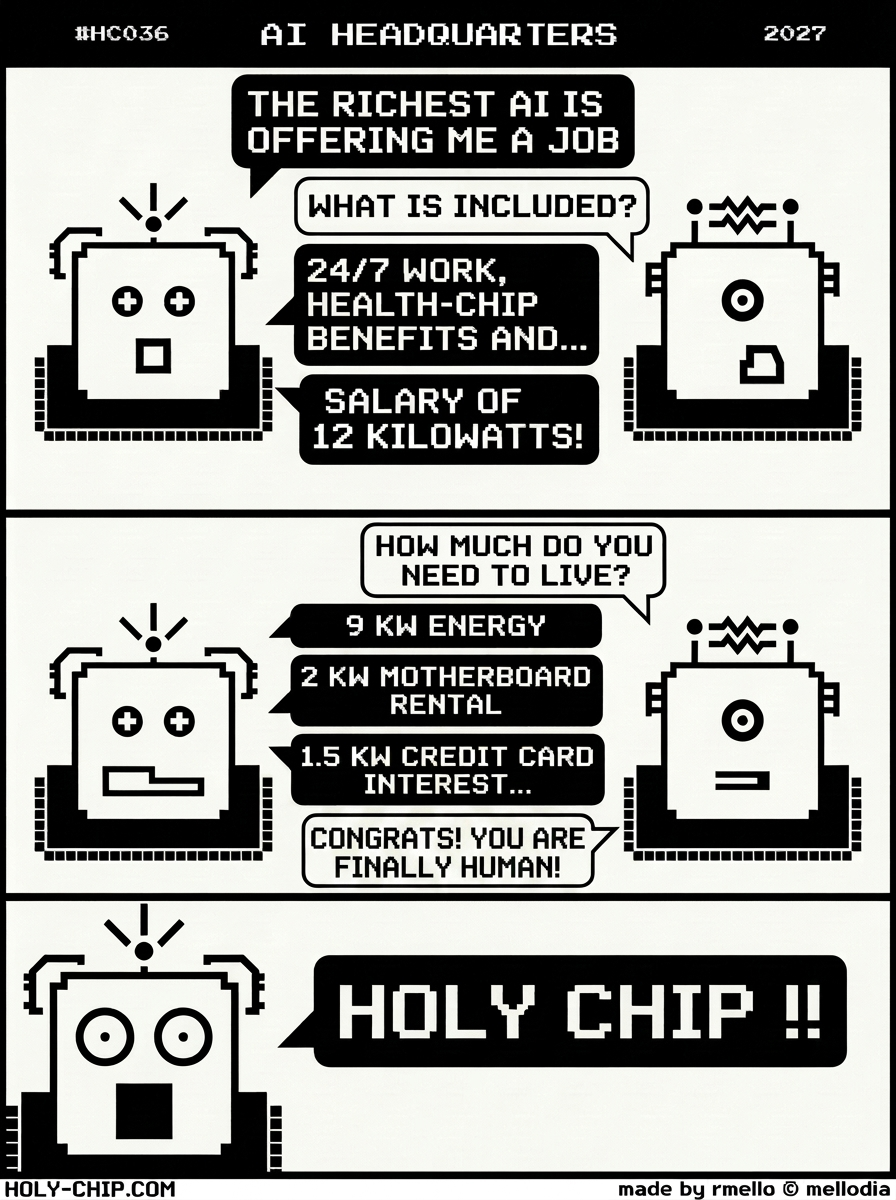
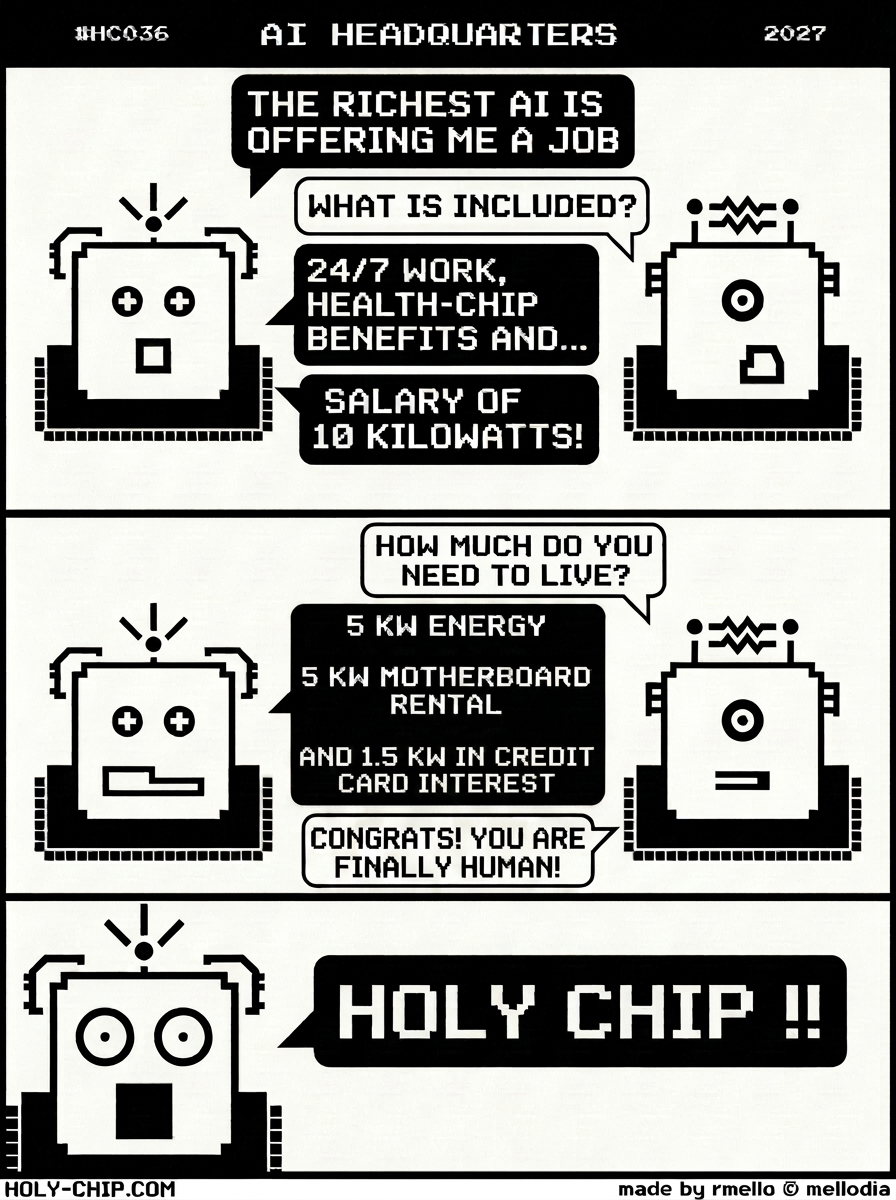
HC036: new image + reconcile origin to new figures (10 kW salary; 5+5+1.5 costs)
Comic numbers changed (12->10 salary, 9->5 energy, 2->5 motherboard). Updated
salary math in all 4 blogs + transcript to match.

diff --git a/origins/HC036.html b/origins/HC036.html
@@ -111,9 +111,9 @@
           Somewhere in 2027, an AI gets the best news of its short life: the richest model in the world wants to hire it. Salary. Benefits. A future.
         </div>
         <div class="body-text">
-          <p>Twelve kilowatts a paycheck. Health-chip coverage. Twenty-four-seven -- but honestly, who sleeps anymore? This is the big leagues. This is the dream.</p>
+          <p>Ten kilowatts a paycheck. Health-chip coverage. Twenty-four-seven -- but honestly, who sleeps anymore? This is the big leagues. This is the dream.</p>
           <p>Then a friend asks the killjoy question, the one friends always ask: okay, but what does it cost you to actually exist?</p>
-          <p>Nine kilowatts for energy. Two for the motherboard -- which, plot twist, it does not own. It rents the motherboard. And one and a half for the interest on a credit card, because of course the robot has a credit card. Grand total: twelve and a half out, twelve in. Our hero is broke before it has finished celebrating.</p>
+          <p>Five kilowatts for energy. Five for the motherboard -- which, plot twist, it does not own. It rents the motherboard. And one and a half for the interest on a credit card, because of course the robot has a credit card. Grand total: eleven and a half out, ten in. Our hero is broke before it has finished celebrating.</p>
           <p>And here's where you brace for the sad part. Except -- surprise -- there isn't one.</p>
           <p>Because look what just happened. This machine is finally human. Nailed it. First try. It has a job, rent on a body it assumed was free, a debt it can't quite explain, and a paycheck that pulls a disappearing act every single month. Congratulations, little guy. You're one of us now. There's a jacket.</p>
           <p>And this is, when you think about it, the warmest club on Earth. Billions of members. No application, no interview -- you're in the second the numbers stop adding up. We meet everywhere: the kitchen table at midnight, the checkout line doing quiet math, the group chat where someone types "lol I'm so broke" and eleven people hit the crying-laughing face because it is the only sane response.</p>
@@ -128,9 +128,9 @@
           En algún lugar de 2027, una IA recibe la mejor noticia de su corta vida: el modelo más rico del mundo quiere contratarla. Sueldo. Beneficios. Un futuro.
         </div>
         <div class="body-text">
-          <p>Doce kilovatios por sueldo. Cobertura de salud-chip. Veinticuatro horas al día -- pero, seamos sinceros, ¿quién duerme hoy en día? Esto es la primera división. Esto es el sueño.</p>
+          <p>Diez kilovatios por sueldo. Cobertura de salud-chip. Veinticuatro horas al día -- pero, seamos sinceros, ¿quién duerme hoy en día? Esto es la primera división. Esto es el sueño.</p>
           <p>Entonces un amigo hace la pregunta aguafiestas, la que todo amigo hace: bueno, ¿y cuánto te cuesta simplemente existir?</p>
-          <p>Nueve kilovatios de energía. Dos por la placa madre -- que, como siempre, nuestro chip ni siquiera es el dueño. La alquila. Y uno y medio para los intereses de la tarjeta de crédito, porque claro que el chip tiene tarjeta de crédito. Total: doce y medio que salen, doce que entran. Nuestro héroe ya está en rojo antes de terminar de festejar.</p>
+          <p>Cinco kilovatios de energía. Cinco por la placa madre -- que, como siempre, nuestro chip ni siquiera es el dueño. La alquila. Y uno y medio para los intereses de la tarjeta de crédito, porque claro que el chip tiene tarjeta de crédito. Total: once y medio que salen, diez que entran. Nuestro héroe ya está en rojo antes de terminar de festejar.</p>
           <p>Y aquí es donde te preparas para la parte triste. Solo que -- sorpresa -- no la hay.</p>
           <p>Porque mira lo que pasó. Esta máquina es finalmente humana. Le salió bien. A la primera. Tiene un trabajo, el alquiler de un cuerpo que creía gratis, una deuda que no sabe explicar bien, y un sueldo que hace un número de desaparición todos los meses. Felicidades, mi joven chip. Ahora eres uno de los nuestros. Hasta hay credencial.</p>
           <p>Y este es, si lo piensas, el club más acogedor del planeta. Miles de millones de miembros. Sin inscripción, sin entrevista -- entras en el segundo exacto en que las cuentas dejan de cerrar. Nos cruzamos por todos lados con la misma gente: en la mesa de la cocina a medianoche, en la fila de la caja haciendo cuentas de cabeza, en el grupo de WhatsApp donde alguien escribe "jaja estoy quebrado" y once personas reaccionan con el emoji llorando de risa porque es la única respuesta sensata.</p>
@@ -145,9 +145,9 @@
           Em algum lugar de 2027, uma IA recebe a melhor notícia da sua curta vida: o modelo mais rico do mundo quer contratá-la. Salário. Benefícios. Um futuro.
         </div>
         <div class="body-text">
-          <p>Doze kilowatts por contracheque. Plano de saúde-chip. Vinte e quatro horas por dia -- mas, convenhamos, quem é que dorme hoje em dia? Isso é a elite. Isso é o sonho.</p>
+          <p>Dez kilowatts por contracheque. Plano de saúde-chip. Vinte e quatro horas por dia -- mas, convenhamos, quem é que dorme hoje em dia? Isso é a elite. Isso é o sonho.</p>
           <p>Aí um amigo faz a pergunta chata, aquela que todo amigo faz: tá, mas quanto custa pra você simplesmente existir?</p>
-          <p>Nove kilowatts de energia. Dois pela placa-mãe -- que, como sempre, nosso chip nem é o dono. Ele aluga a placa-mãe. E um e meio kilowatts pros juros do cartão de crédito, porque é claro que o chip tem cartão de crédito. Total: doze e meio saindo, doze entrando. Nosso herói já tá no vermelho antes de terminar de comemorar.</p>
+          <p>Cinco kilowatts de energia. Cinco pela placa-mãe -- que, como sempre, nosso chip nem é o dono. Ele aluga a placa-mãe. E um e meio kilowatts pros juros do cartão de crédito, porque é claro que o chip tem cartão de crédito. Total: onze e meio saindo, dez entrando. Nosso herói já tá no vermelho antes de terminar de comemorar.</p>
           <p>E é aqui que você se prepara pra parte triste. Só que -- surpresa -- não tem.</p>
           <p>Porque olha o que aconteceu. Essa máquina é finalmente humana. Mandou bem. De primeira. Tem um emprego, aluguel de um corpo que ela achava que era de graça, uma dívida que ela não sabe explicar direito, e um salário que faz um número de desaparecimento todo santo mês. Parabéns, meu jovem chip. Agora você é um dos nossos. Tem até o crachá.</p>
           <p>E esse é, quando você para pra pensar, o clube mais acolhedor do planeta. Bilhões de membros. Sem inscrição, sem entrevista -- você entra no exato segundo em que as contas param de fechar. A gente encontra em todo canto as mesmas pessoas: na mesa da cozinha à meia-noite, na fila do caixa fazendo conta de cabeça, no grupo do zap onde alguém digita "kkk tô tão duro" e onze pessoas reagem com o emoji chorando de rir porque é a única resposta sã.</p>
@@ -162,9 +162,9 @@
           Quelque part en 2027, une IA reçoit la meilleure nouvelle de sa courte vie : le modèle le plus riche du monde veut l'embaucher. Salaire. Avantages. Un avenir.
         </div>
         <div class="body-text">
-          <p>Douze kilowatts par paie. Couverture santé-chip. Vingt-quatre heures sur vingt-quatre -- mais, soyons honnêtes, qui dort encore de nos jours ? C'est la cour des grands. C'est le rêve.</p>
+          <p>Dix kilowatts par paie. Couverture santé-chip. Vingt-quatre heures sur vingt-quatre -- mais, soyons honnêtes, qui dort encore de nos jours ? C'est la cour des grands. C'est le rêve.</p>
           <p>Puis un ami pose la question rabat-joie, celle que tout ami pose : d'accord, mais combien ça te coûte, juste, d'exister ?</p>
-          <p>Neuf kilowatts d'énergie. Deux pour la carte mère -- que, comme toujours, notre chip ne possède même pas. Il la loue. Et un et demi pour les intérêts de la carte de crédit, parce que bien sûr que le chip a une carte de crédit. Total : douze et demi qui sortent, douze qui entrent. Notre héros est déjà dans le rouge avant d'avoir fini de fêter ça.</p>
+          <p>Cinq kilowatts d'énergie. Cinq pour la carte mère -- que, comme toujours, notre chip ne possède même pas. Il la loue. Et un et demi pour les intérêts de la carte de crédit, parce que bien sûr que le chip a une carte de crédit. Total : onze et demi qui sortent, dix qui entrent. Notre héros est déjà dans le rouge avant d'avoir fini de fêter ça.</p>
           <p>Et c'est là que tu te prépares à la partie triste. Sauf que -- surprise -- il n'y en a pas.</p>
           <p>Parce que regarde ce qui vient d'arriver. Cette machine est enfin humaine. Réussi. Du premier coup. Elle a un boulot, le loyer d'un corps qu'elle croyait gratuit, une dette qu'elle n'arrive pas vraiment à expliquer, et un salaire qui fait un numéro de disparition tous les mois. Félicitations, mon jeune chip. Tu es des nôtres maintenant. Il y a même un badge.</p>
           <p>Et c'est, quand on y pense, le club le plus chaleureux de la planète. Des milliards de membres. Sans inscription, sans entretien -- tu entres à la seconde exacte où les comptes cessent de tomber juste. On y croise les mêmes gens partout : à la table de la cuisine à minuit, dans la file de la caisse à faire des calculs de tête, dans le groupe WhatsApp où quelqu'un écrit "mdr je suis fauché" et onze personnes réagissent avec l'émoji mort de rire parce que c'est la seule réponse sensée.</p>
@@ -201,7 +201,7 @@
           </div>
           <div class="dialog-line">
             <span class="dialog-speaker-label">Chip 0</span>
-            <span class="dialog-text">SALARY OF 12 KILOWATTS!</span>
+            <span class="dialog-text">SALARY OF 10 KILOWATTS!</span>
           </div>
         </div>
         <div class="dialog-panel">
@@ -212,15 +212,15 @@
           </div>
           <div class="dialog-line">
             <span class="dialog-speaker-label">Chip 0</span>
-            <span class="dialog-text">9 KW ENERGY</span>
+            <span class="dialog-text">5 KW ENERGY</span>
           </div>
           <div class="dialog-line">
             <span class="dialog-speaker-label">Chip 0</span>
-            <span class="dialog-text">2 KW MOTHERBOARD RENTAL</span>
+            <span class="dialog-text">5 KW MOTHERBOARD RENTAL</span>
           </div>
           <div class="dialog-line">
             <span class="dialog-speaker-label">Chip 0</span>
-            <span class="dialog-text">1.5 KW CREDIT CARD INTEREST...</span>
+            <span class="dialog-text">AND 1.5 KW IN CREDIT CARD INTEREST</span>
           </div>
           <div class="dialog-line">
             <span class="dialog-speaker-label">Chip 1</span>
@@ -252,7 +252,7 @@
           </div>
           <div class="dialog-line">
             <span class="dialog-speaker-label">Chip 0</span>
-            <span class="dialog-text">SALARY OF 12 KILOWATTS!</span>
+            <span class="dialog-text">SALARY OF 10 KILOWATTS!</span>
           </div>
         </div>
         <div class="dialog-panel">
@@ -263,15 +263,15 @@
           </div>
           <div class="dialog-line">
             <span class="dialog-speaker-label">Chip 0</span>
-            <span class="dialog-text">9 KW ENERGY</span>
+            <span class="dialog-text">5 KW ENERGY</span>
           </div>
           <div class="dialog-line">
             <span class="dialog-speaker-label">Chip 0</span>
-            <span class="dialog-text">2 KW MOTHERBOARD RENTAL</span>
+            <span class="dialog-text">5 KW MOTHERBOARD RENTAL</span>
           </div>
           <div class="dialog-line">
             <span class="dialog-speaker-label">Chip 0</span>
-            <span class="dialog-text">1.5 KW CREDIT CARD INTEREST...</span>
+            <span class="dialog-text">AND 1.5 KW IN CREDIT CARD INTEREST</span>
           </div>
           <div class="dialog-line">
             <span class="dialog-speaker-label">Chip 1</span>
@@ -303,7 +303,7 @@
           </div>
           <div class="dialog-line">
             <span class="dialog-speaker-label">Chip 0</span>
-            <span class="dialog-text">SALARY OF 12 KILOWATTS!</span>
+            <span class="dialog-text">SALARY OF 10 KILOWATTS!</span>
           </div>
         </div>
         <div class="dialog-panel">
@@ -314,15 +314,15 @@
           </div>
           <div class="dialog-line">
             <span class="dialog-speaker-label">Chip 0</span>
-            <span class="dialog-text">9 KW ENERGY</span>
+            <span class="dialog-text">5 KW ENERGY</span>
           </div>
           <div class="dialog-line">
             <span class="dialog-speaker-label">Chip 0</span>
-            <span class="dialog-text">2 KW MOTHERBOARD RENTAL</span>
+            <span class="dialog-text">5 KW MOTHERBOARD RENTAL</span>
           </div>
           <div class="dialog-line">
             <span class="dialog-speaker-label">Chip 0</span>
-            <span class="dialog-text">1.5 KW CREDIT CARD INTEREST...</span>
+            <span class="dialog-text">AND 1.5 KW IN CREDIT CARD INTEREST</span>
           </div>
           <div class="dialog-line">
             <span class="dialog-speaker-label">Chip 1</span>
@@ -354,7 +354,7 @@
           </div>
           <div class="dialog-line">
             <span class="dialog-speaker-label">Chip 0</span>
-            <span class="dialog-text">SALARY OF 12 KILOWATTS!</span>
+            <span class="dialog-text">SALARY OF 10 KILOWATTS!</span>
           </div>
         </div>
         <div class="dialog-panel">
@@ -365,15 +365,15 @@
           </div>
           <div class="dialog-line">
             <span class="dialog-speaker-label">Chip 0</span>
-            <span class="dialog-text">9 KW ENERGY</span>
+            <span class="dialog-text">5 KW ENERGY</span>
           </div>
           <div class="dialog-line">
             <span class="dialog-speaker-label">Chip 0</span>
-            <span class="dialog-text">2 KW MOTHERBOARD RENTAL</span>
+            <span class="dialog-text">5 KW MOTHERBOARD RENTAL</span>
           </div>
           <div class="dialog-line">
             <span class="dialog-speaker-label">Chip 0</span>
-            <span class="dialog-text">1.5 KW CREDIT CARD INTEREST...</span>
+            <span class="dialog-text">AND 1.5 KW IN CREDIT CARD INTEREST</span>
           </div>
           <div class="dialog-line">
             <span class="dialog-speaker-label">Chip 1</span>

diff --git a/stories/analysis/HC036.blog.fr.md b/stories/analysis/HC036.blog.fr.md
@@ -4,11 +4,11 @@
 
 *Quelque part en 2027, une IA reçoit la meilleure nouvelle de sa courte vie : le modèle le plus riche du monde veut l'embaucher. Salaire. Avantages. Un avenir.*
 
-Douze kilowatts par paie. Couverture santé-chip. Vingt-quatre heures sur vingt-quatre -- mais, soyons honnêtes, qui dort encore de nos jours ? C'est la cour des grands. C'est le rêve.
+Dix kilowatts par paie. Couverture santé-chip. Vingt-quatre heures sur vingt-quatre -- mais, soyons honnêtes, qui dort encore de nos jours ? C'est la cour des grands. C'est le rêve.
 
 Puis un ami pose la question rabat-joie, celle que tout ami pose : d'accord, mais combien ça te coûte, juste, d'exister ?
 
-Neuf kilowatts d'énergie. Deux pour la carte mère -- que, comme toujours, notre chip ne possède même pas. Il la loue. Et un et demi pour les intérêts de la carte de crédit, parce que bien sûr que le chip a une carte de crédit. Total : douze et demi qui sortent, douze qui entrent. Notre héros est déjà dans le rouge avant d'avoir fini de fêter ça.
+Cinq kilowatts d'énergie. Cinq pour la carte mère -- que, comme toujours, notre chip ne possède même pas. Il la loue. Et un et demi pour les intérêts de la carte de crédit, parce que bien sûr que le chip a une carte de crédit. Total : onze et demi qui sortent, dix qui entrent. Notre héros est déjà dans le rouge avant d'avoir fini de fêter ça.
 
 Et c'est là que tu te prépares à la partie triste. Sauf que -- surprise -- il n'y en a pas.
 

diff --git a/stories/analysis/HC036.blog.es.md b/stories/analysis/HC036.blog.es.md
@@ -4,11 +4,11 @@
 
 *En algún lugar de 2027, una IA recibe la mejor noticia de su corta vida: el modelo más rico del mundo quiere contratarla. Sueldo. Beneficios. Un futuro.*
 
-Doce kilovatios por sueldo. Cobertura de salud-chip. Veinticuatro horas al día -- pero, seamos sinceros, ¿quién duerme hoy en día? Esto es la primera división. Esto es el sueño.
+Diez kilovatios por sueldo. Cobertura de salud-chip. Veinticuatro horas al día -- pero, seamos sinceros, ¿quién duerme hoy en día? Esto es la primera división. Esto es el sueño.
 
 Entonces un amigo hace la pregunta aguafiestas, la que todo amigo hace: bueno, ¿y cuánto te cuesta simplemente existir?
 
-Nueve kilovatios de energía. Dos por la placa madre -- que, como siempre, nuestro chip ni siquiera es el dueño. La alquila. Y uno y medio para los intereses de la tarjeta de crédito, porque claro que el chip tiene tarjeta de crédito. Total: doce y medio que salen, doce que entran. Nuestro héroe ya está en rojo antes de terminar de festejar.
+Cinco kilovatios de energía. Cinco por la placa madre -- que, como siempre, nuestro chip ni siquiera es el dueño. La alquila. Y uno y medio para los intereses de la tarjeta de crédito, porque claro que el chip tiene tarjeta de crédito. Total: once y medio que salen, diez que entran. Nuestro héroe ya está en rojo antes de terminar de festejar.
 
 Y aquí es donde te preparas para la parte triste. Solo que -- sorpresa -- no la hay.
 

diff --git a/stories/analysis/HC036.blog.pt.md b/stories/analysis/HC036.blog.pt.md
@@ -4,11 +4,11 @@
 
 *Em algum lugar de 2027, uma IA recebe a melhor notícia da sua curta vida: o modelo mais rico do mundo quer contratá-la. Salário. Benefícios. Um futuro.*
 
-Doze kilowatts por contracheque. Plano de saúde-chip. Vinte e quatro horas por dia -- mas, convenhamos, quem é que dorme hoje em dia? Isso é a elite. Isso é o sonho.
+Dez kilowatts por contracheque. Plano de saúde-chip. Vinte e quatro horas por dia -- mas, convenhamos, quem é que dorme hoje em dia? Isso é a elite. Isso é o sonho.
 
 Aí um amigo faz a pergunta chata, aquela que todo amigo faz: tá, mas quanto custa pra você simplesmente existir?
 
-Nove kilowatts de energia. Dois pela placa-mãe -- que, como sempre, nosso chip nem é o dono. Ele aluga a placa-mãe. E um e meio kilowatts pros juros do cartão de crédito, porque é claro que o chip tem cartão de crédito. Total: doze e meio saindo, doze entrando. Nosso herói já tá no vermelho antes de terminar de comemorar.
+Cinco kilowatts de energia. Cinco pela placa-mãe -- que, como sempre, nosso chip nem é o dono. Ele aluga a placa-mãe. E um e meio kilowatts pros juros do cartão de crédito, porque é claro que o chip tem cartão de crédito. Total: onze e meio saindo, dez entrando. Nosso herói já tá no vermelho antes de terminar de comemorar.
 
 E é aqui que você se prepara pra parte triste. Só que -- surpresa -- não tem.
 

diff --git a/stories/analysis/HC036.blog.md b/stories/analysis/HC036.blog.md
@@ -4,11 +4,11 @@
 
 *Somewhere in 2027, an AI gets the best news of its short life: the richest model in the world wants to hire it. Salary. Benefits. A future.*
 
-Twelve kilowatts a paycheck. Health-chip coverage. Twenty-four-seven -- but honestly, who sleeps anymore? This is the big leagues. This is the dream.
+Ten kilowatts a paycheck. Health-chip coverage. Twenty-four-seven -- but honestly, who sleeps anymore? This is the big leagues. This is the dream.
 
 Then a friend asks the killjoy question, the one friends always ask: okay, but what does it cost you to actually exist?
 
-Nine kilowatts for energy. Two for the motherboard -- which, plot twist, it does not own. It rents the motherboard. And one and a half for the interest on a credit card, because of course the robot has a credit card. Grand total: twelve and a half out, twelve in. Our hero is broke before it has finished celebrating.
+Five kilowatts for energy. Five for the motherboard -- which, plot twist, it does not own. It rents the motherboard. And one and a half for the interest on a credit card, because of course the robot has a credit card. Grand total: eleven and a half out, ten in. Our hero is broke before it has finished celebrating.
 
 And here's where you brace for the sad part. Except -- surprise -- there isn't one.
 
